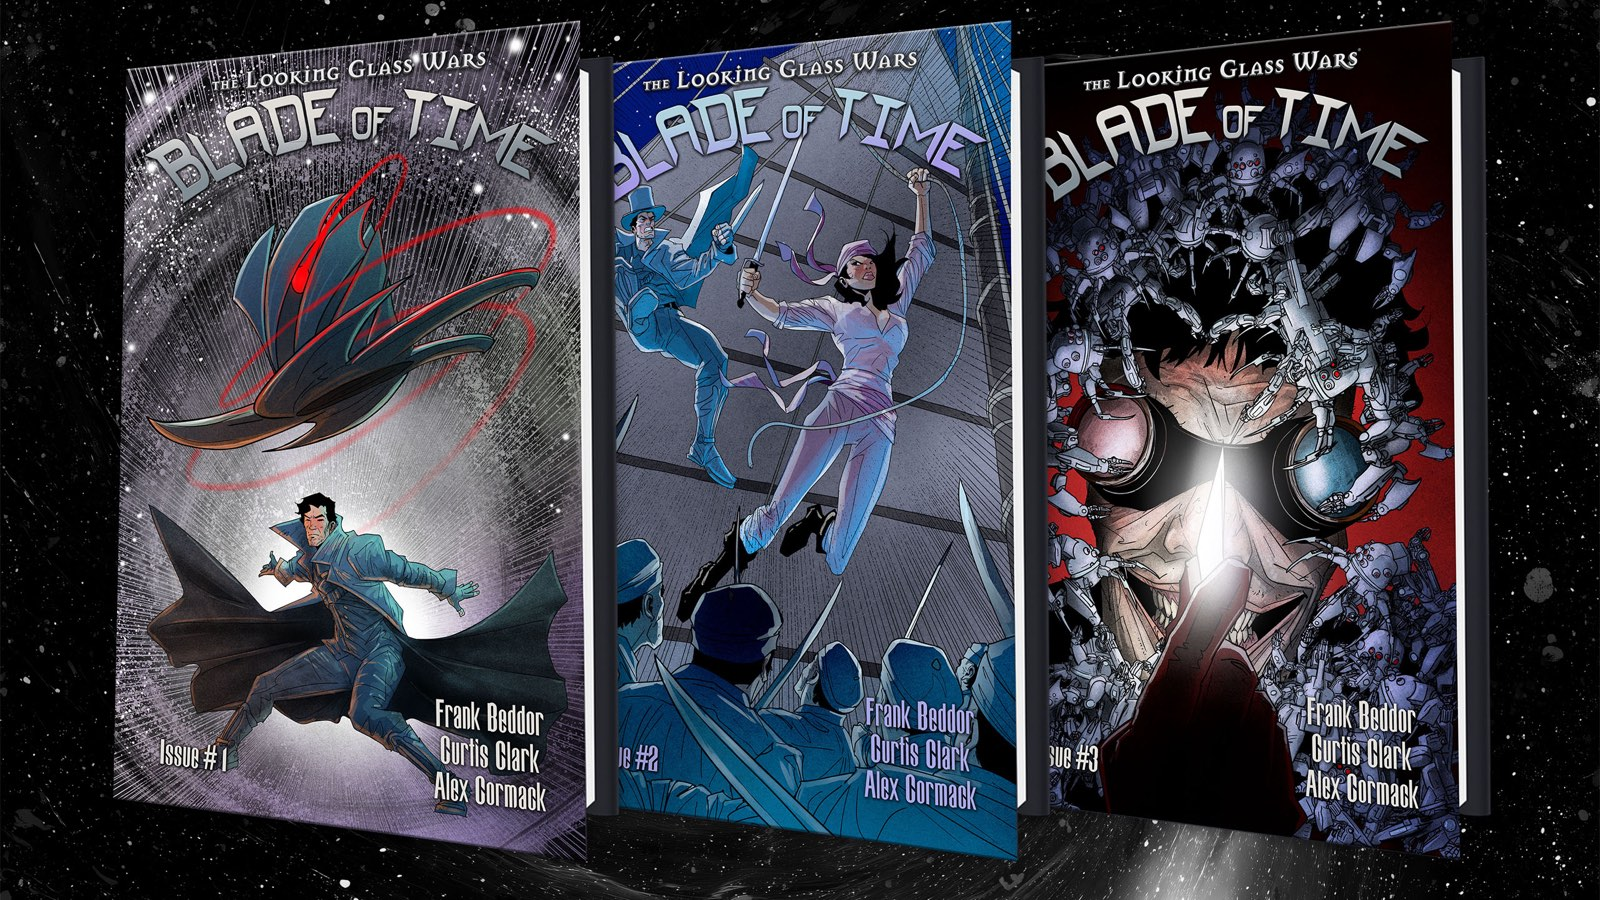
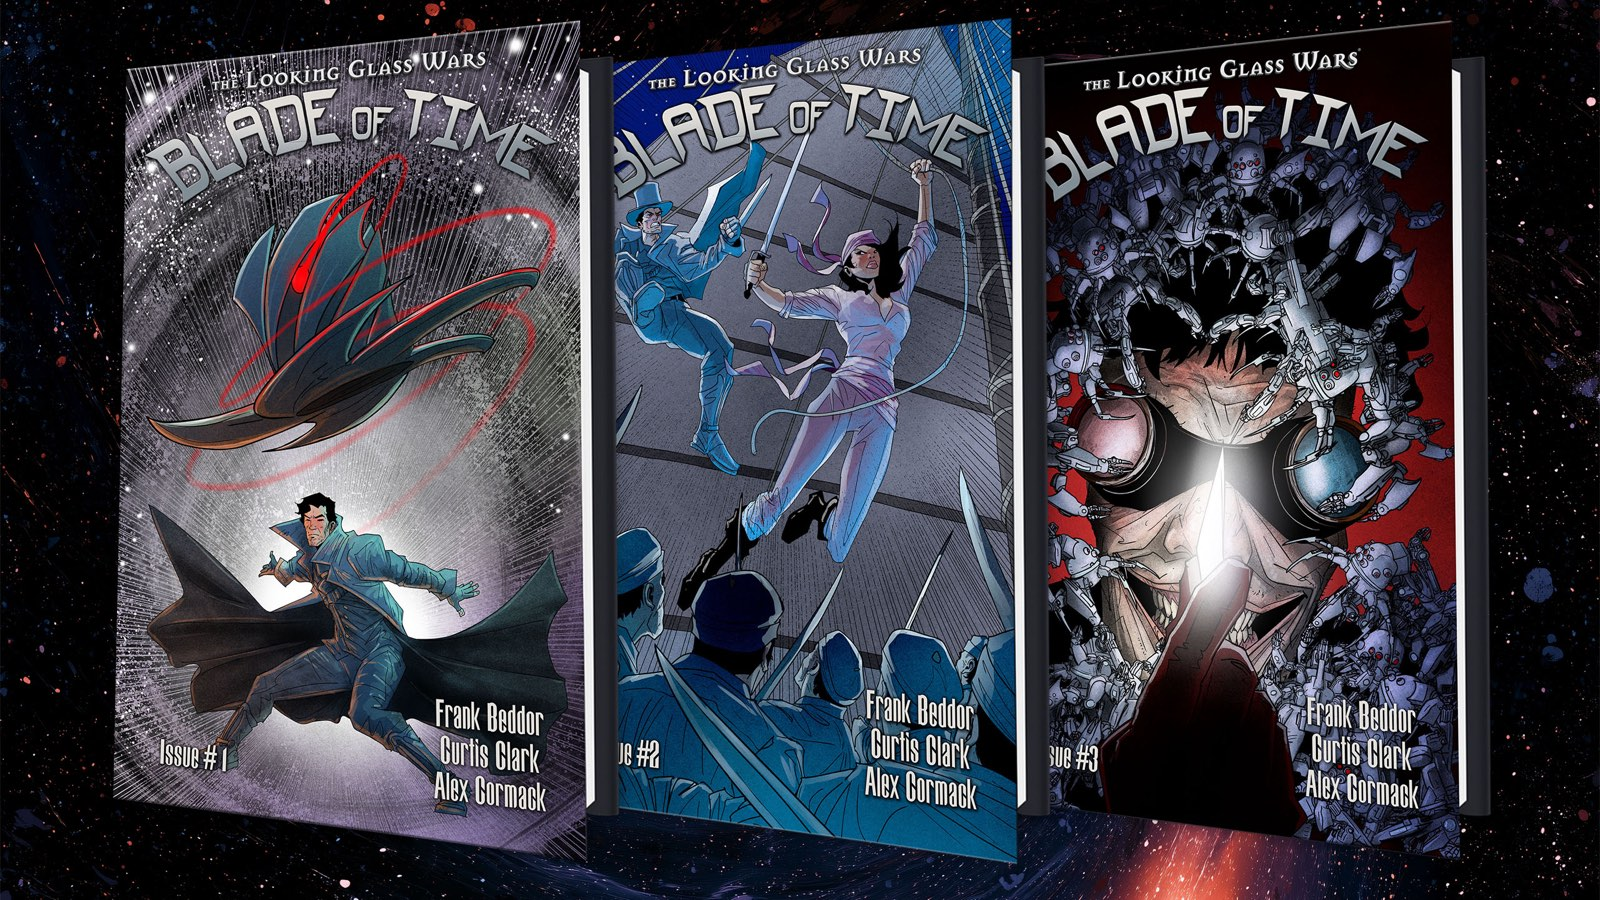
Swap in the revised Blade of Time key art and issue two cover
Both replacements match the dimensions of the files they replace, so
nothing in the layout changes. They keep their paths too, which is what
the ?v=2 on each source is for: Cloudflare holds an asset at a given URL
for hours, so without a new URL the old art would keep being served long
after the deploy and read as a failed push.

diff --git a/bladeoftime.html b/bladeoftime.html
@@ -116,7 +116,7 @@ height="0" width="0" style="display:none;visibility:hidden"></iframe></noscript>
 <section class="hero">
   <h1 class="title rise">Blade of Time</h1>
   <p class="subtitle rise d1">When memory becomes a weapon&hellip;</p>
-  <div class="keyart-hero rise d2"><img src="assets/img/viz-bot-keyart.jpg" alt="Blade of Time — key art"></div>
+  <div class="keyart-hero rise d2"><img src="assets/img/viz-bot-keyart.jpg?v=2" alt="Blade of Time — key art"></div>
 </section>
 
 <!-- ===== COVERS + SAMPLE-PAGE LIGHTBOX =====
@@ -203,7 +203,7 @@ height="0" width="0" style="display:none;visibility:hidden"></iframe></noscript>
       </div>
       <div class="cover-item rise d1">
         <button class="cover-card" type="button" data-book="1" aria-label="Issue Two — open sample pages">
-          <img src="assets/img/viz-bot-issue2.jpg" alt="Blade of Time, Issue Two — cover" loading="lazy">
+          <img src="assets/img/viz-bot-issue2.jpg?v=2" alt="Blade of Time, Issue Two — cover" loading="lazy">
           <span class="cc-cta">Sample pages</span>
         </button>
       </div>
